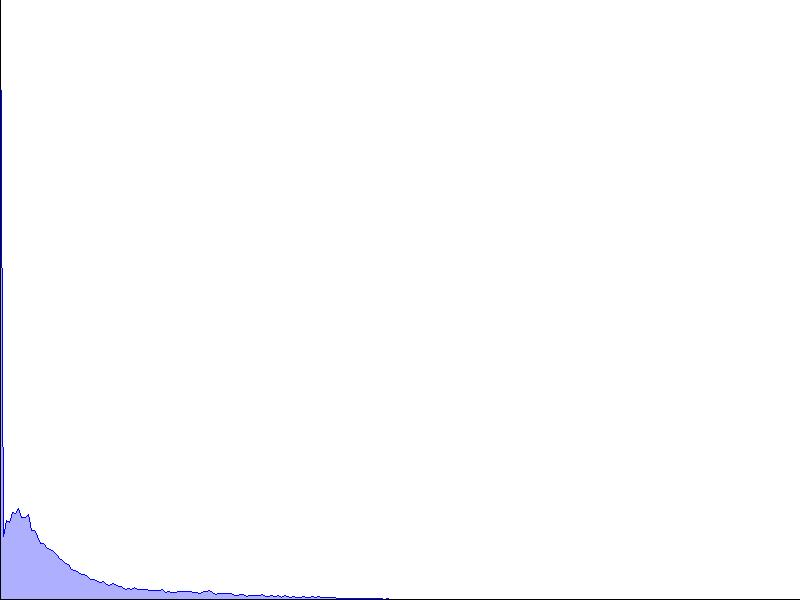
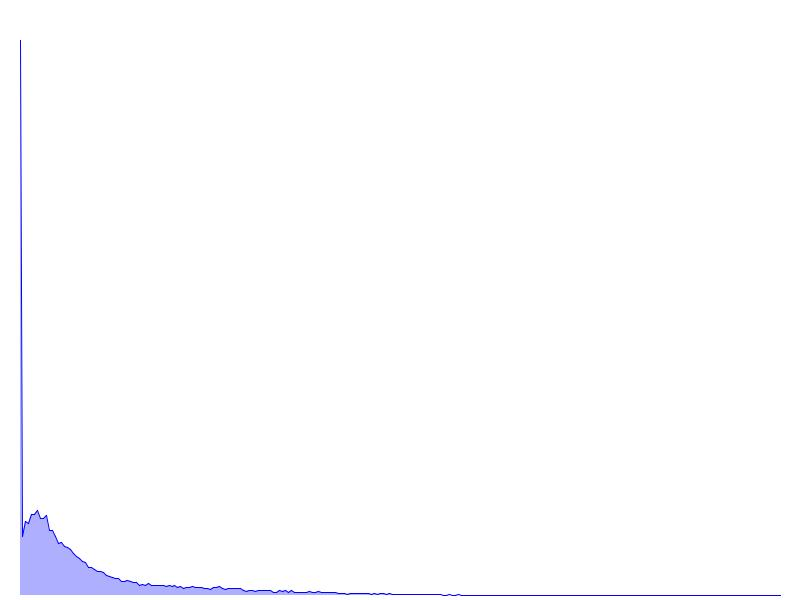
Ajuste de margenes

Changed region(s): [[0.0, 0.09, 1.0, 1.0]]

diff --git a/src/Histograma.java b/src/Histograma.java
@@ -45,6 +45,11 @@ public class Histograma {
             Graphics2D grB = buferAzul.createGraphics();
             Graphics2D grC = buferCombinado.createGraphics();
 
+            grR.setRenderingHint(RenderingHints.KEY_ANTIALIASING, RenderingHints.VALUE_ANTIALIAS_ON);
+            grG.setRenderingHint(RenderingHints.KEY_ANTIALIASING, RenderingHints.VALUE_ANTIALIAS_ON);
+            grB.setRenderingHint(RenderingHints.KEY_ANTIALIASING, RenderingHints.VALUE_ANTIALIAS_ON);
+            grC.setRenderingHint(RenderingHints.KEY_ANTIALIASING, RenderingHints.VALUE_ANTIALIAS_ON);
+
             grR.setColor(Color.WHITE);
             grR.fillRect(0, 0, anchoHisto, altoHisto);
             grG.setColor(Color.WHITE);
@@ -78,17 +83,23 @@ public class Histograma {
             int max2 = maximo(histoG);
             int max3 = maximo(histoB);
 
-            float escalaX = (float) anchoHisto / 256;
-            float escalaY = (float) altoHisto / max;
-            float escalaY2 = (float) altoHisto / max2;
-            float escalaY3 = (float) altoHisto / max3;
+            int margenTop = 40;
+            int margenLateral = 20;
+            int margenBottom = 5;
+
+            float escalaX = (float) (anchoHisto - (2 * margenLateral)) / 255;
+            float escalaY = (float) (altoHisto - margenTop - margenBottom) / max;
+            float escalaY2 = (float) (altoHisto - margenTop - margenBottom) / max2;
+            float escalaY3 = (float) (altoHisto - margenTop - margenBottom) / max3;
 
             Polygon polyR = new Polygon();
-            polyR.addPoint(0, altoHisto);
+            polyR.addPoint(margenLateral, altoHisto - margenBottom);
             for (int i = 0; i < histoR.length; i++) {
-                polyR.addPoint((int) (escalaX * i), altoHisto - (int) (escalaY * histoR[i]));
+                int x = margenLateral + (int) (escalaX * i);
+                int y = altoHisto - margenBottom - (int) (escalaY * histoR[i]);
+                polyR.addPoint(x, y);
             }
-            polyR.addPoint((int) (escalaX * 255), altoHisto);
+            polyR.addPoint(margenLateral + (int) (escalaX * 255), altoHisto - margenBottom);
 
             grR.setColor(new Color(255, 0, 0, 80));
             grR.fillPolygon(polyR);
@@ -98,20 +109,22 @@ public class Histograma {
             grR.setColor(Color.RED);
             grC.setColor(Color.RED);
             for (int i = 1; i < histoR.length; i++) {
-                int x1 = (int) (escalaX * (i - 1));
-                int y1 = altoHisto - (int) (escalaY * histoR[i - 1]);
-                int x2 = (int) (escalaX * i);
-                int y2 = altoHisto - (int) (escalaY * histoR[i]);
+                int x1 = margenLateral + (int) (escalaX * (i - 1));
+                int y1 = altoHisto - margenBottom - (int) (escalaY * histoR[i - 1]);
+                int x2 = margenLateral + (int) (escalaX * i);
+                int y2 = altoHisto - margenBottom - (int) (escalaY * histoR[i]);
                 grR.drawLine(x1, y1, x2, y2);
                 grC.drawLine(x1, y1, x2, y2);
             }
 
             Polygon polyG = new Polygon();
-            polyG.addPoint(0, altoHisto);
+            polyG.addPoint(margenLateral, altoHisto - margenBottom);
             for (int i = 0; i < histoG.length; i++) {
-                polyG.addPoint((int) (escalaX * i), altoHisto - (int) (escalaY2 * histoG[i]));
+                int x = margenLateral + (int) (escalaX * i);
+                int y = altoHisto - margenBottom - (int) (escalaY2 * histoG[i]);
+                polyG.addPoint(x, y);
             }
-            polyG.addPoint((int) (escalaX * 255), altoHisto);
+            polyG.addPoint(margenLateral + (int) (escalaX * 255), altoHisto - margenBottom);
 
             grG.setColor(new Color(0, 255, 0, 80));
             grG.fillPolygon(polyG);
@@ -121,20 +134,22 @@ public class Histograma {
             grG.setColor(Color.GREEN);
             grC.setColor(Color.GREEN);
             for (int i = 1; i < histoG.length; i++) {
-                int x1 = (int) (escalaX * (i - 1));
-                int y1 = altoHisto - (int) (escalaY2 * histoG[i - 1]);
-                int x2 = (int) (escalaX * i);
-                int y2 = altoHisto - (int) (escalaY2 * histoG[i]);
+                int x1 = margenLateral + (int) (escalaX * (i - 1));
+                int y1 = altoHisto - margenBottom - (int) (escalaY2 * histoG[i - 1]);
+                int x2 = margenLateral + (int) (escalaX * i);
+                int y2 = altoHisto - margenBottom - (int) (escalaY2 * histoG[i]);
                 grG.drawLine(x1, y1, x2, y2);
                 grC.drawLine(x1, y1, x2, y2);
             }
 
             Polygon polyB = new Polygon();
-            polyB.addPoint(0, altoHisto);
+            polyB.addPoint(margenLateral, altoHisto - margenBottom);
             for (int i = 0; i < histoB.length; i++) {
-                polyB.addPoint((int) (escalaX * i), altoHisto - (int) (escalaY3 * histoB[i]));
+                int x = margenLateral + (int) (escalaX * i);
+                int y = altoHisto - margenBottom - (int) (escalaY3 * histoB[i]);
+                polyB.addPoint(x, y);
             }
-            polyB.addPoint((int) (escalaX * 255), altoHisto);
+            polyB.addPoint(margenLateral + (int) (escalaX * 255), altoHisto - margenBottom);
 
             grB.setColor(new Color(0, 0, 255, 80));
             grB.fillPolygon(polyB);
@@ -144,20 +159,12 @@ public class Histograma {
             grB.setColor(Color.BLUE);
             grC.setColor(Color.BLUE);
             for (int i = 1; i < histoB.length; i++) {
-                int x1 = (int) (escalaX * (i - 1));
-                int y1 = altoHisto - (int) (escalaY3 * histoB[i - 1]);
-                int x2 = (int) (escalaX * i);
-                int y2 = altoHisto - (int) (escalaY3 * histoB[i]);
+                int x1 = margenLateral + (int) (escalaX * (i - 1));
+                int y1 = altoHisto - margenBottom - (int) (escalaY3 * histoB[i - 1]);
+                int x2 = margenLateral + (int) (escalaX * i);
+                int y2 = altoHisto - margenBottom - (int) (escalaY3 * histoB[i]);
                 grB.drawLine(x1, y1, x2, y2);
                 grC.drawLine(x1, y1, x2, y2);
-            }
-
-            Graphics2D[] graficos = { grR, grG, grB, grC };
-            for (Graphics2D g2 : graficos) {
-                g2.setColor(Color.BLACK);
-                g2.drawLine(0, altoHisto - 1, anchoHisto, altoHisto - 1);
-                g2.drawLine(0, 0, 0, altoHisto);
-                g2.dispose();
             }
 
             ImageIO.write(buferRojo, "jpg", file2);
